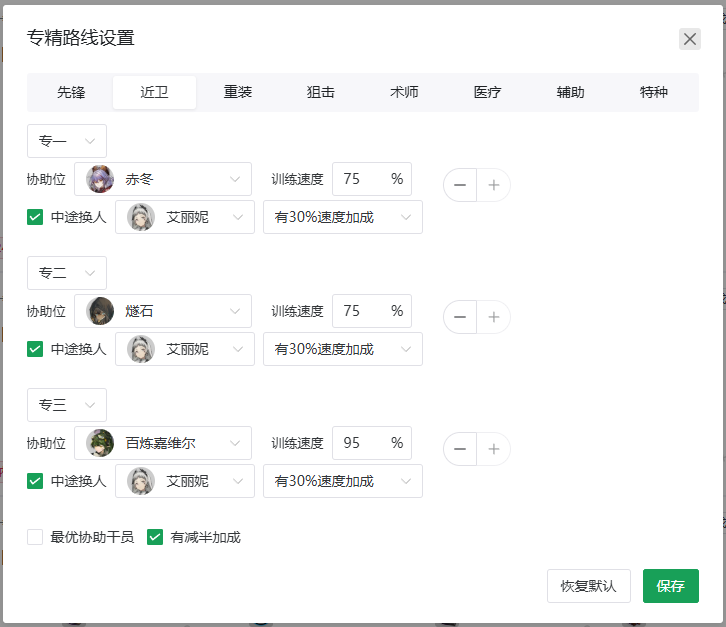
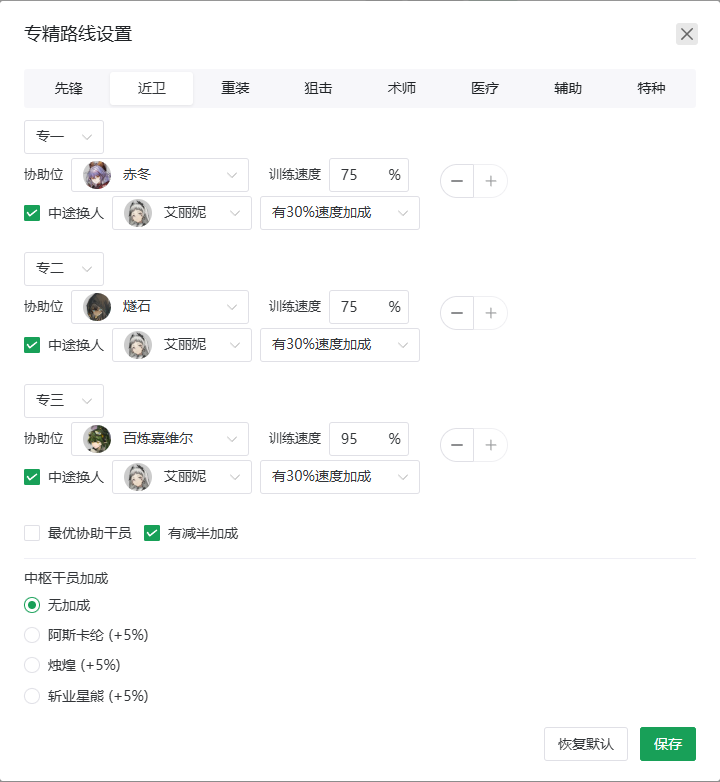
docs: fix tutorial errors and update auto-mastery guide

diff --git a/docs/manual/MasteryRecommendation.md b/docs/manual/MasteryRecommendation.md
@@ -1,28 +1,11 @@
-# 专精推荐功能使用教程
+# 专精推荐
 
 ## 功能概述
 
-专精推荐功能基于森空岛数据，自动分析你的干员和仓库材料，计算哪些技能可以进行专精（技能等级 7→10，即专一至专三），并支持一键创建自动化专精任务。
+专精推荐功能基于森空岛数据，自动分析你的干员和仓库材料，计算哪些技能可以进行专精（技能等级 7→10，即专一至专三），支持一键创建自动化专精任务，并在仓库扫描后**自动检测材料充足的计划项并安排专精**。
 
----
-
-## 训练室基础机制
-
-在了解本功能之前，先回顾训练室的核心游戏规则：
-
-| 机制 | 说明 |
-|------|------|
-| **训练室等级** | 训练室需要升级到 3 级才能进行专三训练 |
-| **基础速度加成** | 协助位进驻非「注意力涣散」的干员时，训练速度 **+5%**（所有协助生效的基础值） |
-| **同时单计划** | 训练室同时只能执行一个专精计划 |
-| **不可中止** | 训练开始后无法取消，训练中的干员在此期间无法换岗 |
-| **实际消耗** | 本模块仅分析仓库材料是否充足，专精时游戏内会**真实消耗材料**，不会自动代刷 |
-
-### 训练时间的计算
-
-实际训练用时 = 基础训练时间 / (1 + 5% + 协助干员加成%)
-
-不同稀有度的基础训练时间不同（以 6★ 为例约为 8h / 16h / 24h，5★/4★ 更短），Mower 会根据 `skill_data.json` 中的精确数据计算每个技能的实际用时，无需手动估算。
+!!! info "版本要求"
+    本教程适用于 Mower 版本 **4.1.5.5** 及以上。
 
 ---
 
@@ -30,7 +13,6 @@
 
 1. **Mower 正在运行**：专精任务会被添加到 Mower 的任务队列中自动执行
 2. **森空岛数据**：首次使用需点击「刷新」按钮从森空岛拉取干员和仓库数据
-3. **专精数据文件**：`arknights_mower/resources/skill_data.json`（由 `build_assets.py` 生成，包含技能升级材料和时间）
 
 ---
 
@@ -49,8 +31,12 @@
 |------|------|
 | **刷新** | 从森空岛拉取最新干员数据和仓库材料，重新分析专精推荐 |
 | **专精计划** | 查看和管理已加入计划的技能列表 |
-| **专精路线** | 配置各职业的专精工具人（协助位干员）和换人策略 |
+| **专精路线** | 配置各职业的专精工具人（协助位干员）、换人策略和中枢加成 |
 | **自动合成配置** | 根据计划中的技能，自动生成制造站合成配方并创建加工任务 |
+| **保存合成配置** | 将当前的制造站合成方案保存为默认配置，供后续一键还原 |
+| **还原合成配置** | 从已保存的默认配置恢复制造站合成方案 |
+| **T5 合成干员** | 选择负责合成 T5（金材料）的制造站干员，默认为「年」 |
+| **技巧概要干员** | 选择负责合成技巧概要·卷3 的制造站干员，默认为「司霆惊蛰」 |
 
 ### 筛选条件
 
@@ -64,7 +50,7 @@
 | **缺料拆解为 T3** | 将缺料按合成配方拆解为 T3 基础材料展示，方便查看需要刷哪些材料 |
 
 !!! example "示例"
-    某技能缺 1 个「聚合剂」，勾选 T3 拆解后，会将其拆为「酮阵列×2 + 异铁块×2 + 改量装置×1」等 T3 材料，直观展示需要刷的各种蓝材料。
+    某技能缺 1 个「聚合剂」和 2 个「异铁块」，勾选 T3 拆解后，聚合剂会拆为 T3 材料（如酮凝集组、异铁组、全新装置），异铁块会拆为异铁组。最终以 T3 材料汇总展示，方便你直观了解需要刷哪些蓝材料。
 
 ---
 
@@ -82,7 +68,7 @@
 展开干员折叠面板，可以看到每个可专精技能的详细信息：
 
 - **技能名 → M3**：当前等级（如 Lv7→10）和目标等级
-- **总训练时间**：完成全程专精所需的小时数（已计入协助加成）
+- **总训练时间**：完成全程专精所需的原始时间（未计入协助加成，实际用时会更短）
 - **所需材料**：列出所有需要的材料及数量，绿色背景表示该材料已足够
 - **缺少材料**：红色标签展示缺失的材料及数量
 
@@ -96,44 +82,45 @@
 - 点击单个技能的「加计划」→ 该技能加入计划
 - 点击干员右侧的「全加计划」→ 该干员所有技能加入计划
 - 左上角「专精计划」按钮可以查看和管理计划列表
-- 计划会持久化保存到本地，刷新页面不会丢失
+- 计划会持久化保存到本地 `tmp/matery_plan.json`，刷新页面不会丢失
+
+加入计划后，页面顶部会自动显示「计划缺料汇总（T3）」，将所有计划内技能的材料缺口拆解到 T3 层级进行汇总展示，方便你一眼看清该刷哪些材料。
+
+!!! info "缺料汇总实时更新"
+    计划缺料汇总是**实时计算**的。每次添加或移除计划项，汇总结果都会自动刷新，无需手动触发。
 
 ### 第四步（可选）：配置专精路线
 
-点击「专精路线」按钮，为每个职业配置专精工具人（协助位）。
+本步骤为**可选操作**。默认配置预设了各职业的最优训练速度干员，但这些干员的最高速度技能均需**精二**解锁，且你可能尚未持有这些干员。请根据你的干员池按需调整。
 
-??? info "什么是专精工具人？"
+点击「专精路线」按钮可以查看和调整各职业的训练方案。以下场景建议动手修改：
 
-    专精工具人是在训练室协助位提供训练速度加成的干员。本模块为每个职业默认配置了三名干员（专一/专二/专三各一名），以下是各职业默认推荐：
+| 场景 | 操作 |
+|------|------|
+| 默认配置中的干员你**没有或未精二** | 替换为你拥有的已精二的同职业训练干员 |
+| 你拥有**中枢加成干员**（阿斯卡纶/烛煌/斩业星熊） | 在「中枢干员加成」中选上对应的干员（+5% 速度） |
+| 你**没有**艾丽妮或逻各斯 | 取消「中途换人」勾选 |
+| 你不需要减半加成 | 取消「有减半加成」勾选 |
 
-    | 职业 | 专一（减半） | 专二 | 专三 |
-    |------|-------------|------|------|
-    | **先锋** | 夜半 (75%) | 缄默德克萨斯 (80%) | 嵯峨 (60%) |
-    | **近卫** | 赤冬 (75%) | 燧石 (75%) | 百炼嘉维尔 (95%) |
-    | **重装** | 极光 (75%) | 暴雨 (75%) | 星熊 (60%) |
-    | **狙击** | 假日威龙陈 (95%) | 埃拉托 (75%) | W (95%) |
-    | **术师** | 特米米 (75%) | 薄绿 (75%) | 死芒 (95%) |
-    | **医疗** | 阿 (60%) | 濯尘芙蓉 (75%) | 阿 (60%) |
-    | **辅助** | 铃兰 (60%) | 铃兰 (60%) | 浊心斯卡蒂 (95%) |
-    | **特种** | 罗宾 (75%) | 缄默德克萨斯 (80%) | 归溟幽灵鲨 (95%) |
+如果无需修改，保持默认设置即可。修改完成后点击「保存」使全自动专精也能使用你的路线配置。以下为各配置项的详细说明。
 
-    !!! note "选择依据"
-        专一默认带减半加成（速度可低一些，时间本身短），专二和专三注重高训练速度。
+#### 默认协助干员推荐
 
-#### 中途换人机制
+本模块为每个职业预设了三名干员（专一/专二/专三各一名），以下速度数值为**精二**后的最高训练速度：
 
-这是专精路线中最重要的策略点，需要理解两个核心机制：
+| 职业 | 专一 | 专二 | 专三 |
+|------|------|------|------|
+| **先锋** | 夜半 (75%) | 缄默德克萨斯 (80%) | 嵯峨 (60%) |
+| **近卫** | 赤冬 (75%) | 燧石 (75%) | 百炼嘉维尔 (95%) |
+| **重装** | 极光 (75%) | 暴雨 (75%) | 星熊 (60%) |
+| **狙击** | 假日威龙陈 (95%) | 埃拉托 (75%) | W (95%) |
+| **术师** | 特米米 (75%) | 薄绿 (75%) | 死芒 (95%) |
+| **医疗** | 阿 (60%) | 濯尘芙蓉 (75%) | 阿 (60%) |
+| **辅助** | 铃兰 (60%) | 铃兰 (60%) | 浊心斯卡蒂 (95%) |
+| **特种** | 罗宾 (75%) | 缄默德克萨斯 (80%) | 归溟幽灵鲨 (95%) |
 
-**1. 艾丽妮 (精二) 的「精神锻炼」与 逻各斯 (精二) 的「言语之义」**
-
-这两位干员的精英二基建技能效果相同：在协助位持续协助同一名干员达到 **5 小时** 后，该干员**下一次专精训练开始时立即完成 50% 的训练进度**（等效于下一次训练时间减半）。
-
-**2. 默认策略**
-
-以近卫为例：先用 **百炼嘉维尔 (95% 速度)** 完成专二的大部分训练，在最后阶段中途换入 **艾丽妮**。这样：
-- 训练过程享受了百炼嘉维尔的高速度
-- 训练结束时艾丽妮已在协助位超过 5 小时
-- 下一次专精（专三）开始后立即完成 50% 进度，大幅缩短总时间
+!!! warning "重要"
+    上表中的速度需要干员达到**精英 2**才能解锁。例如赤冬精英 0 仅有 +30%，精英 2 后提升至 +75%。其中**阿、特米米、濯尘芙蓉**三位干员的精英 0 技能与训练室无关，未精二时无法提供任何训练加成，必须精二后使用。
 
 #### 路线设置界面
 
@@ -147,12 +134,51 @@
 | 配置项 | 说明 |
 |--------|------|
 | **协助位干员** | 在训练室协助位提供训练速度加成的干员 |
-| **训练速度** | 该干员提供的训练速度加成百分比（不包含基础 5%） |
+| **训练速度** | 该干员提供的训练速度加成百分比（不包含基础 5% 和中枢加成，总上限 100%） |
 | **中途换人** | 勾选后，Mower 会在训练中途将协助干员替换为换人干员 |
-| **换人干员** | 中途替换进来的干员（艾丽妮或逻各斯），替换的目的是触发精神锻炼/言语之义 |
-| **有 30% 速度加成** | 换人干员的职业是否匹配训练位干员职业，从而获得自身的 +30% 速度加成（近卫/狙击匹配艾丽妮，术师/辅助匹配逻各斯） |
-| **最优协助干员** | 使用各职业已知的最高速度协助干员配置 |
-| **有减半加成** | 该协助干员是否提供专一半时间加成 |
+| **换人干员** | 中途替换进来的干员（艾丽妮或逻各斯），用于触发精神锻炼/言语之义 |
+| **有 30% 速度加成** | 换人干员是否匹配训练位职业，从而获得额外 +30% 速度 |
+| **最优协助干员** | 一键填入各职业最优高速干员 |
+| **有减半加成** | 该职业是否启用专一半时间加成策略（影响所有阶段） |
+| **中枢干员加成** | 选择中枢中提供训练加成的干员（阿斯卡纶/烛煌/斩业星熊，+5%） |
+
+??? info "中途换人机制详解"
+
+    默认路线开启了中途换人，这是大幅缩短总训练时间的关键策略。
+
+    **1. 核心原理**
+
+    艾丽妮 (精二) 的「精神锻炼」与 逻各斯 (精二) 的「言语之义」效果相同：在协助位持续协助同一位干员达到 **5 小时** 后，该干员**下一次专精训练开始时立即完成 50% 进度**。
+
+    **2. 默认执行流程（以近卫专二→专三为例）**
+
+    1. 专二训练：百炼嘉维尔以 95% 速度推进训练
+    2. 训练尾声：中途换入艾丽妮（持续超过 5 小时）
+    3. 专三训练开始：立即完成 50% 进度（触发精神锻炼）
+
+    **3. 换人干员选择**
+
+    | 训练位职业 | 推荐换人干员 | 额外加成 |
+    |-----------|-------------|----------|
+    | 近卫 / 狙击 | 艾丽妮 | 职业匹配 +30% |
+    | 术师 / 辅助 | 逻各斯 | 职业匹配 +30% |
+    | 其余职业 | 艾丽妮 或 逻各斯 | 无额外加成 |
+
+    !!! tip
+        如果换人干员的职业与训练位干员不匹配，仅触发 50% 进度减半效果，没有额外速度加成。
+
+??? info "中枢干员加成详解"
+
+    部分干员在控制中枢中可提供训练速度加成：
+
+    | 干员 | 精英阶段 | 技能 | 加成 |
+    |------|---------|------|------|
+    | 阿斯卡纶 | 精英 0 | S.W.E.E.P.主管 | +5% |
+    | 烛煌 | 精英 0 | 下城人脉 | +5% |
+    | 斩业星熊 | 精英 0 | 下城人脉 | +5% |
+
+    !!! warning "不叠加"
+        三者均为「同种效果取最高」，拥有任意一位即可。其 +5% 会叠加在协助位速度之上（总速度上限 100%）。这也是唯一需要在专精路线中手动配置的部分——默认是关闭状态。
 
 ### 第五步：一键专精
 
@@ -180,23 +206,53 @@
 
 ---
 
+## 全自动专精
+
+Mower 在执行**仓库扫描**时，会自动检测专精计划中材料完全充足的技能，并自动安排专精任务。全自动专精会读取你在专精路线中保存的配置，正常执行换人和级联推进。
+
+### 工作原理
+
+1. 将目标技能加入专精计划
+2. 待仓库材料充足后，Mower 在仓库扫描环节自动检测
+3. 材料完全满足的技能会被自动添加为「技能专精」任务
+4. 材料不足的技能会被跳过，并在日志中记录
+
+### 自动更新合成配置
+
+在全自动专精的同时，Mower 还会自动更新制造站合成方案，确保计划中所需的材料按需合成，减少手动配置的步骤。
+
+!!! tip "使用建议"
+    只需将想要专精的技能全部加入专精计划，然后通过自动合成配置提前准备好材料。当材料到位后，Mower 会在仓库扫描时自动检测并安排专精，实现"放进去就等着"的全自动体验。
+
+---
+
 ## 自动合成配置
 
 对于材料不足的技能，可以使用「自动合成配置」一键生成制造站合成方案：
 
 1. 先将所需的技能加入专精计划
-2. 选择「T5 合成干员」（如"年"）和「技巧概要干员」（如"司霆惊蛰"）
-3. 点击「自动合成配置」
+2. 在「T5 合成干员」下拉框中选择负责合成 T5 金材料的干员（如"年"）
+3. 在「技巧概要干员」下拉框中选择负责合成技巧概要·卷3 的干员（如"司霆惊蛰"）
+4. 点击「自动合成配置」
 
 本模块将会自动：
 
    - 分析计划中所有技能的材料缺口
    - 将高阶材料拆解为 T4/T3 基础材料
-   - 生成制造站合成配置（九色鹿 + T5 干员分工）
+   - 生成制造站合成配置（九色鹿 + T5 干员 + 技巧概要干员三条产线）
    - 创建对应的加工任务
    - 使用已有的 T3 库存抵扣
 
-计划缺料汇总会以 T3 材料标签展示，方便你直观了解需要刷哪些材料。
+计划缺料汇总会以 T3 材料标签实时展示，方便你直观了解需要刷哪些材料。
+
+### 保存与还原合成配置
+
+合成配置支持保存和还原：
+
+- 点击「保存合成配置」→ 将当前的合成方案保存为默认配置，写入 `tmp/workshop_preset.json`
+- 点击「还原合成配置」→ 从已保存的默认配置一键恢复合成方案
+
+这在频繁切换专精计划时非常实用——你可以先保存当前的"日常合成"方案，尝试新的专精合成配置后随时还原。
 
 ---
 
@@ -204,24 +260,43 @@
 
 ??? question "Q: 为什么有些干员没有显示？"
 
-    A: 只有精二（`evolvePhase >= 2`）且有技能未专三的干员才会出现在推荐列表中。
+    A: 列表中仅展示已精二且至少有一个技能未达到专三的干员。如果干员未精二或所有技能已满专三，不会出现。
 
 ??? question "Q: 为什么提示「暂无干员数据」？"
 
-    A: 需要先点击「刷新」按钮从森空岛拉取数据。如果拉取失败，请检查森空岛 API 是否正常。
+    A: 页面依赖 `tmp/cultivate.json` 中的森空岛数据。点击「刷新」按钮拉取即可。如果拉取失败，请检查森空岛 API 配置是否正常。
 
 ??? question "Q: 材料显示充足，但专精时失败了？"
 
-    A: 仓库材料可能被其他制造/加工消耗了。建议在仓库材料充裕时添加专精任务，或先完成自动合成配置确保材料到位。
+    A: 页面显示的材料充足是基于上次刷新时的仓库快照。如果在刷新后、任务执行前材料被其他制造或加工消耗，游戏内就会因材料不够而中止。建议确认材料到位后再点击一键专精。
 
 ??? question "Q: 中途换人没有触发？"
 
-    A: 请确保「专精路线」中勾选了「中途换人」并填写了正确的换人干员名（艾丽妮或逻各斯）。
+    A: 同时检视以下几点：
+    
+    ①「专精路线」中该职业是否勾选了「中途换人」并填写了换人干员名
+
+    ② 换人干员（艾丽妮或逻各斯）是否已精二——精二后才能解锁精神锻炼/言语之义
+
+    ③ 你**是否拥有**该换人干员
+
+    ④ 专精路线是否已点击「保存」——全自动专精会读取你保存的路线配置
+
+    !!! tip
+        另外请确认「中枢干员加成」是否已正确选择，该加成影响训练速度计算，虽然不直接决定换人是否触发，但会影响换人时间点的计算。
 
 ??? question "Q: 专精计划会丢失吗？"
 
-    A: 计划保存在本地 `tmp/matery_plan.json` 文件中，不会因刷新或重启丢失。
+    A: 不会。计划保存在本地 `tmp/matery_plan.json`，页面每次加载时会从服务端同步。
 
-??? question "Q: 换人干员选艾丽妮还是逻各斯？"
+??? question "Q: 一键专精和全自动专精有什么区别？"
 
-    A: 取决于训练位干员的职业——近卫/狙击选艾丽妮（她有 +30% 近卫狙击加成），术师/辅助选逻各斯（他有 +30% 术师辅助加成），其余职业任选（都没有额外加成，仅触发精神锻炼/言语之义减半效果）。
+    A: 「一键专精」在页面上手动点击，立即添加「上班」+「技能专精」任务到队列。「全自动专精」在 Mower 执行仓库扫描时自动触发，为材料充足的计划项直接安排技能专精任务，无需手动干预。
+
+??? question "Q: 计划里的技能材料够，为什么没有自动安排？"
+
+    A: 全自动专精检测的是**整条专精链路**的材料总和（从当前等级到 M3），而不是单个等级。比如干员当前 Lv7，需要专一、专二、专三的材料全部到位才会触发。另外，自动检测依赖森空岛库存数据，如果数据过期则以实际扫描结果为准，建议先点击「刷新」确保数据和游戏同步。
+
+??? question "Q: 中枢加成选哪个干员？"
+
+    A: 阿斯卡纶、烛煌、斩业星熊三者效果完全相同（均为 +5%，同种效果取最高），选你拥有的任意一位即可。默认关闭，需要在专精路线中手动选择才会生效。
